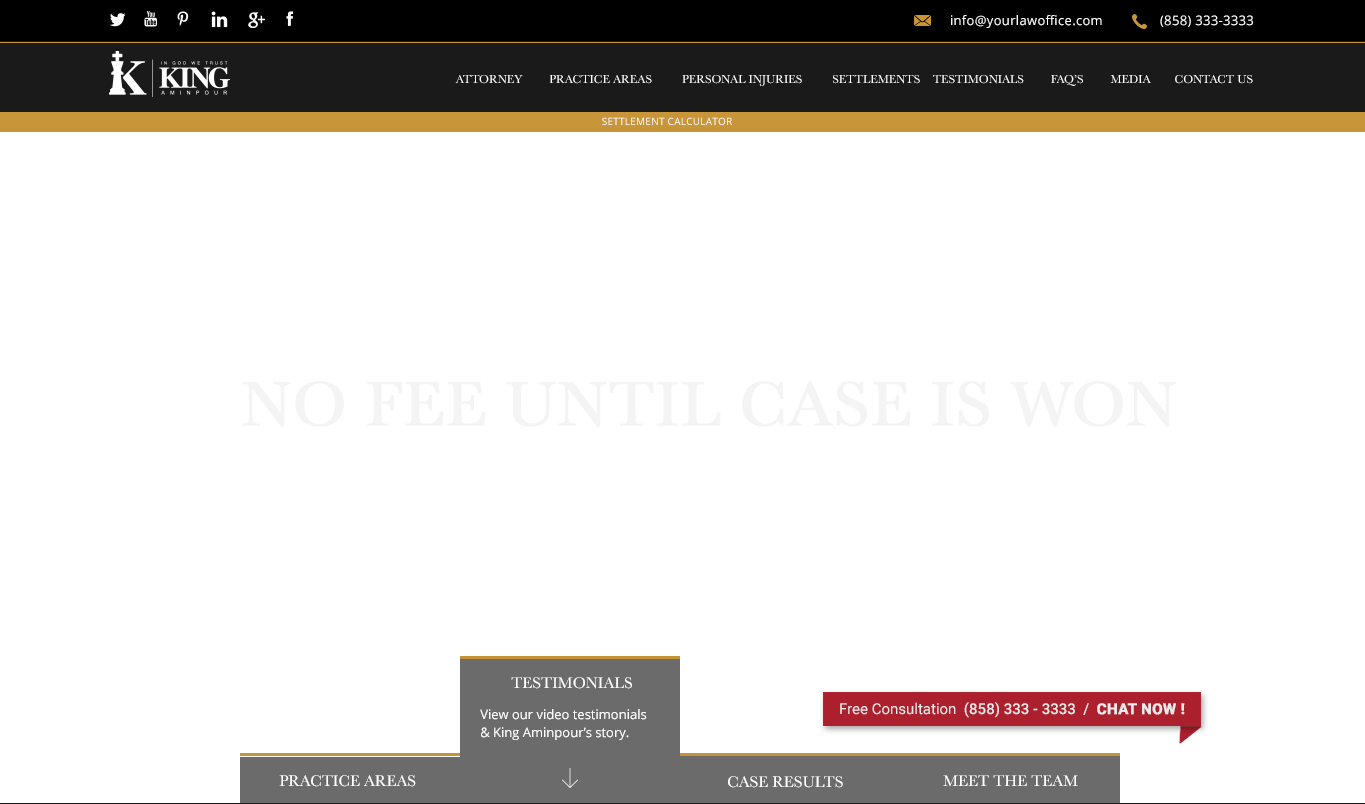
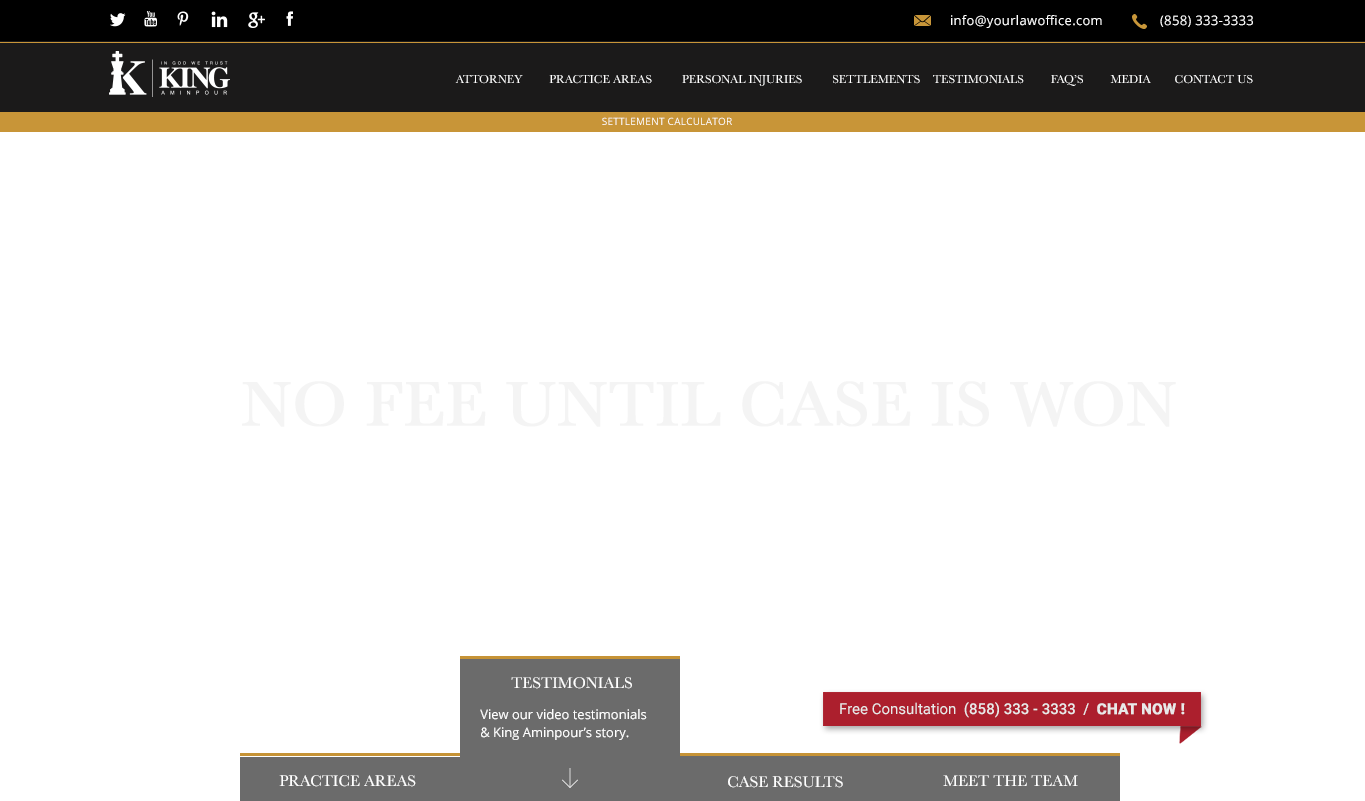
changed png image

diff --git a/index.html b/index.html
@@ -16,7 +16,7 @@
 			background-image: url("gif/ezgif.com-video-to-gif.gif");
 			background-repeat: no-repeat;	
 			background-size: 1663px 1050px;
-			background-position:-90px top;
+			background-position:-89px top;
 		}
 	</style>
 </head>
